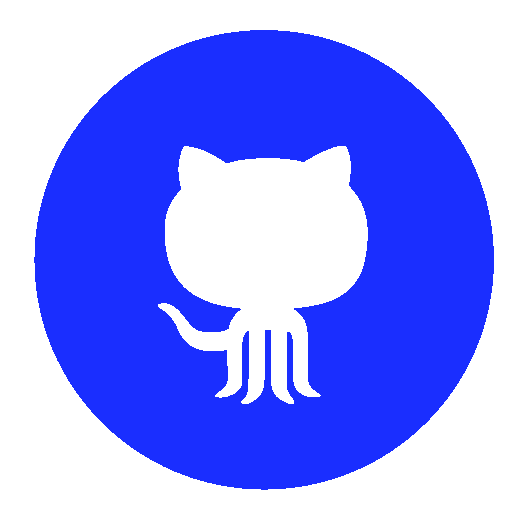
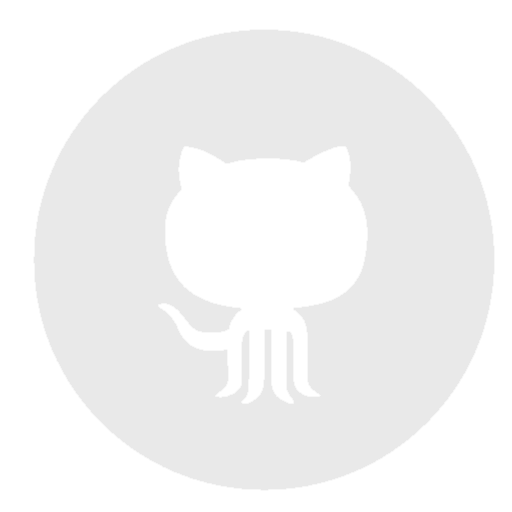
colour theme changed

diff --git a/styles.css b/styles.css
@@ -1,7 +1,7 @@
 body {
     margin: 0;
  
-    background-color: #EFEFEF;
+    background-color: #6D7BCD;
     
   }
   canvas {
@@ -25,7 +25,7 @@ header h1 {
     clip-path: polygon(0 0, 100% 0, 100% 100%, 0% 100%);
     line-height: 3rem;
     /* Add the text stroke effect */
-    color: #1A2EFF; /* Set text color to transparent to avoid double fill */
+    color: #E9E9E9; /* Set text color to transparent to avoid double fill */
 }
 
 .char {
@@ -43,7 +43,7 @@ header h1 {
 
 .descriptor{
   font-family: 'NeuPara', sans-serif;
-  color: #1A2EFF;
+  color: #E9E9E9;
   overflow-wrap: normal;
   margin-top: 12vw;
   margin-bottom: 12vw;
@@ -67,11 +67,11 @@ header h1 {
   margin-top: 6vw; 
   margin-right: 0px;
     font-family: 'Neu', sans-serif;
-    color: #EFEFEF;
+    color: #6D7BCD;
     text-align: right;
   pointer-events: none;
     -webkit-text-stroke-width: 0.2vw;
-    -webkit-text-stroke-color: #1A2EFF;
+    -webkit-text-stroke-color: #E9E9E9;
     font-size: calc(15vw - 7px);
     line-height: 2vw;
     opacity: 0;
@@ -87,11 +87,11 @@ header h1 {
   margin-left:20vw;  
   opacity:1;
     font-family: 'Neu', sans-serif;
-    color: #EFEFEF;
+    color: #6D7BCD;
     text-align: right;
   right: 5px;
     -webkit-text-stroke-width: 0.1vw;
-    -webkit-text-stroke-color: #1A2EFF;
+    -webkit-text-stroke-color: #E9E9E9;
     font-size: 9vw;
     line-height: 0vw;
   pointer-events: none;
@@ -99,7 +99,7 @@ header h1 {
 }
 .subtitle{
   font-size: 1.5vw; /* Adjust the font size as needed */
-      color: #1A2EFF; /* Change the color if desired */
+      color: #E9E9E9; /* Change the color if desired */
       margin-top: 9.5vw; /* Adjust the margin top as needed */
       text-align: right;
       margin-right: 0.6vw;
@@ -115,7 +115,7 @@ header h1 {
 .menu-item:hover, .menu-item:focus {
   transition:transform 0.3s ;
   transform:  perspective(300px) rotateY(1deg) !important;
-    color: #1A2EFF;/* Scale up to 120% on hover */
+    color: #E9E9E9;/* Scale up to 120% on hover */
    /* Change text color on hover (you can customize the color) */
 }
 
@@ -170,17 +170,17 @@ header h1 {
   max-width: 35px;
   height: 50px;
   max-height: 60px;
-  background: #fff;
+  background: #6E7EC7;
   display: inline-block;
   margin: 40px 61px;
   border-radius: 50%;
   position: relative;
   top: -20px;
   overflow: hidden;
-  border-top: 4px solid #1A2EFF;
-  border-left: 4px solid #1A2EFF;
-  border-bottom: 4px solid #1A2EFF;
-  border-right: 4px solid #1A2EFF;
+  border-top: 4px solid #E9E9E9;
+  border-left: 4px solid #E9E9E9;
+  border-bottom: 4px solid #E9E9E9;
+  border-right: 4px solid #E9E9E9;
   z-index: 97;
   
 }

diff --git a/index.html b/index.html
@@ -119,13 +119,13 @@
   </div>         
    
               <div class="bottombutton" style="margin-left: 20px;">
-                <a href="#">
+                <a href="https://github.com/sashabuski">
                     <img src="gitty.png" style="width:50px;" alt="Button Image">
                 </a>
             </div>
           
             <div class="bottombutton" style="margin-left: 80px;">
-                <a href="#">
+              <a href="https://www.linkedin.com/in/sasha-buskin-3690b1249/">
                     <img src="in.png" style="width:50px;" alt="Button Image">
                 </a>
             </div>
@@ -152,6 +152,28 @@ function titlize(clickedElement) {
   a.style.color = '#EFEFEF';
                a.classList.add(".title");
                a.classList.add(".nohover");
+
+
+                 /* */
+  const arrayOfDivs = [];
+  
+   arrayOfDivs.push(data.trigger);
+ 
+ for(let i=1;i<10;i +=2){
+  var head = data.current.container.childNodes[1].childNodes[1].childNodes[1].childNodes[i];
+ console.log("HEAD "+i+head);
+  
+ 
+ if(data.trigger != head){
+    arrayOfDivs.push(head);
+  }
+
+ } 
+
+ arrayOfDivs.forEach(function(header) {
+  // Perform some action on each header element
+  header.style.pointerEvents = "none";// Change opacity as an example
+        });
 }
 
 
@@ -367,6 +389,7 @@ timeline.to(container, { delay: 2,autoAlpha: 1, duration: 2, clearProps: 'all', 
     console.log(index+" "+container.childNodes[index]);
 }
      
+console.log(container.childNodes);
 
 timeline.from(container, { delay: 2,autoAlpha: 0, duration: 1, ease: 'none'});
       //timeline.from(container.childNodes[3], { autoAlpha: 0, duration: 2, clearProps: 'all', ease: 'none'});

diff --git a/NeuWord.html b/NeuWord.html
@@ -94,13 +94,13 @@
       
       
       <div class="bottombutton" style="margin-left: 20px; margin-bottom: 70px;">
-        <a href="#">
+        <a href="https://github.com/sashabuski">
             <img src="gitty.png" style="width:50px;" alt="Button Image">
         </a>
       </div>
     
       <div class="bottombutton" style="margin-left: 20px;">
-          <a href="#">
+        <a href="https://www.linkedin.com/in/sasha-buskin-3690b1249/">
               <img src="in.png" style="width:50px;" alt="Button Image">
           </a>
       </div>
@@ -149,6 +149,32 @@
 
           });
          
+barba.init({
+    transitions: [
+        {sync:true,
+           
+            leave: (data) => animationLeaveMenu(data),
+            enter: ({next}) => {
+               
+                animationEnter(next.container);
+                initScroll();
+            }
+        },{
+            name: 'back',
+            priority: 1,
+            custom: ({ trigger }) => {return trigger === 'back'},
+           
+            leave: (data) => animationLeavePage(data),
+            enter: ({next}) => {
+           
+              console.log('BACKBACK');
+             
+              animationEnterMenu(next.container);
+            
+            }
+          }
+    ]
+});
         </script>
 
        

diff --git a/background2.js b/background2.js
@@ -26,7 +26,7 @@ function setup() {
   splitNum = 5;
   diff = (size / 8) * 0.9;
   stroke(20, 50);
-  background(239,239,239);
+  background(109,123,205);
   framecount = 60;
 
 	
@@ -72,7 +72,7 @@ function draw() {
 
   // Set stroke properties
   strokeWeight(1); // Set a smaller stroke weight
-  stroke(0, 0, 255, 2); // Set a blue stroke color
+  stroke(255, 255, 255, 1.5); // Set a blue stroke color
 
   // Draw vertical lines
   for (let i = 1; i < cols; i++) {
@@ -99,7 +99,7 @@ function draw() {
   vy *= friction;
 
   noStroke();
-  fill(255, 255, 255, 2.6);
+  fill(109,123,205,2.6);
   rectMode(CENTER);
   rect(width / 2, height / 2, width, height);
 
@@ -110,9 +110,9 @@ function draw() {
   r = size - v;
 
   let A = random (30,100);
-  let R = 0;
-  let G = 100;
-  let B = 50;
+  let R = 240;
+  let G = 240;
+  let B = 240;
 
   for (let i = 0; i < splitNum; ++i) {
     oldX = x;
@@ -145,7 +145,7 @@ function stroke() {}
 
 function windowResized() {
   resizeCanvas(windowWidth, windowHeight);
-  background(239,239,239);
+  background(109,123,205);
 }
 
 // Daniel Shiffman

diff --git a/HopIn.html b/HopIn.html
@@ -93,13 +93,13 @@
       
       
       <div class="bottombutton" style="margin-left: 20px; margin-bottom: 70px;">
-        <a href="#">
+        <a href="https://github.com/sashabuski">
             <img src="gitty.png" style="width:50px;" alt="Button Image">
         </a>
       </div>
     
       <div class="bottombutton" style="margin-left: 20px;">
-          <a href="#">
+        <a href="https://www.linkedin.com/in/sasha-buskin-3690b1249/">
               <img src="in.png" style="width:50px;" alt="Button Image">
           </a>
       </div>

diff --git a/PinguTopia.html b/PinguTopia.html
@@ -93,13 +93,13 @@
       
       
       <div class="bottombutton" style="margin-left: 20px; margin-bottom: 70px;">
-        <a href="#">
+        <a href="https://github.com/sashabuski">
             <img src="gitty.png" style="width:50px;" alt="Button Image">
         </a>
       </div>
     
       <div class="bottombutton" style="margin-left: 20px;">
-          <a href="#">
+        <a href="https://www.linkedin.com/in/sasha-buskin-3690b1249/">
               <img src="in.png" style="width:50px;" alt="Button Image">
           </a>
       </div>

diff --git a/WWTBAM.html b/WWTBAM.html
@@ -94,13 +94,13 @@
       
       
       <div class="bottombutton" style="margin-left: 20px; margin-bottom: 70px;">
-        <a href="#">
+        <a href="https://github.com/sashabuski">
             <img src="gitty.png" style="width:50px;" alt="Button Image">
         </a>
       </div>
     
       <div class="bottombutton" style="margin-left: 20px;">
-          <a href="#">
+        <a href="https://www.linkedin.com/in/sasha-buskin-3690b1249/">
               <img src="in.png" style="width:50px;" alt="Button Image">
           </a>
       </div>

diff --git a/Tattoomi.html b/Tattoomi.html
@@ -91,6 +91,19 @@
      
     </div>
     
+      
+    <div class="bottombutton" style="margin-left: 20px; margin-bottom: 70px;">
+      <a href="https://github.com/sashabuski">
+          <img src="gitty.png" style="width:50px;" alt="Button Image">
+      </a>
+    </div>
+  
+    <div class="bottombutton" style="margin-left: 20px;">
+      <a href="https://www.linkedin.com/in/sasha-buskin-3690b1249/">
+            <img src="in.png" style="width:50px;" alt="Button Image">
+        </a>
+    </div>
+
 
 
   

diff --git a/script.js b/script.js
@@ -31,7 +31,7 @@ const cursor = document.querySelector(".cursor");
 circles.forEach(function (circle, index) {
   circle.x = 0;
   circle.y = 0;
-  circle.style.backgroundColor = "#1A2EFF";
+  circle.style.backgroundColor = "#E9E9E9";
   //circle.style.backgroundColor = "#EAAF05";
 });
 
